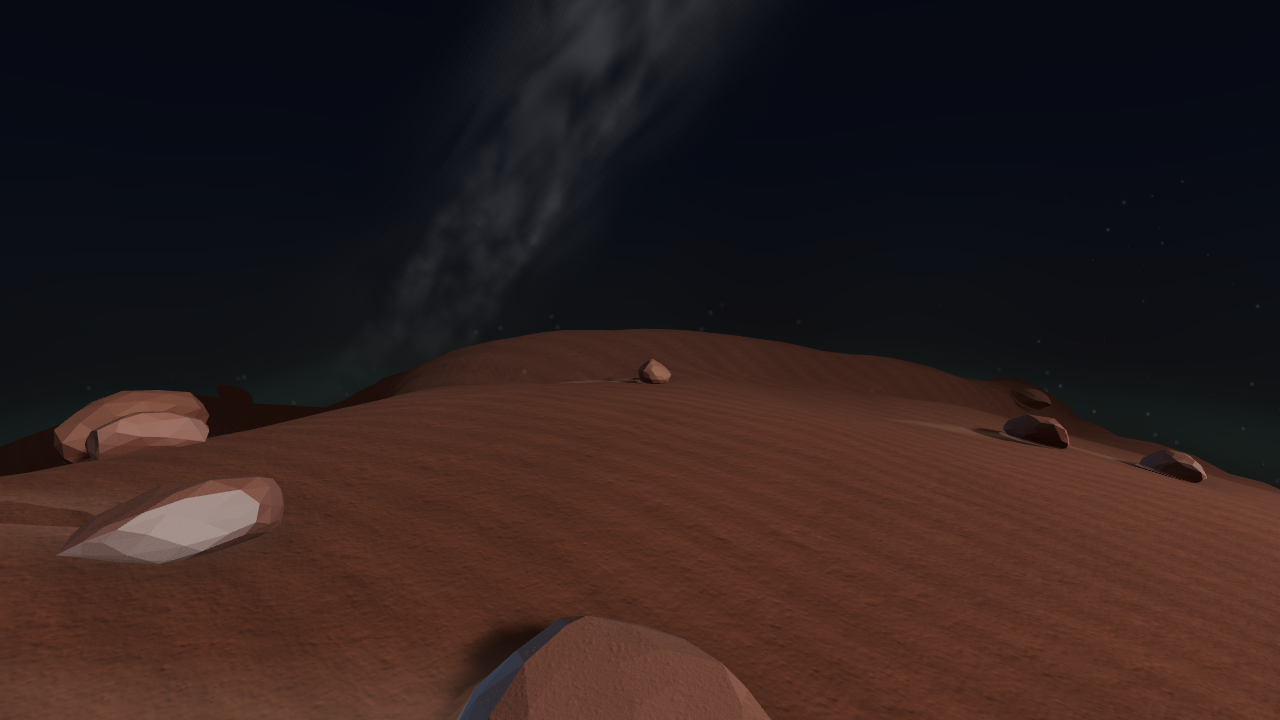
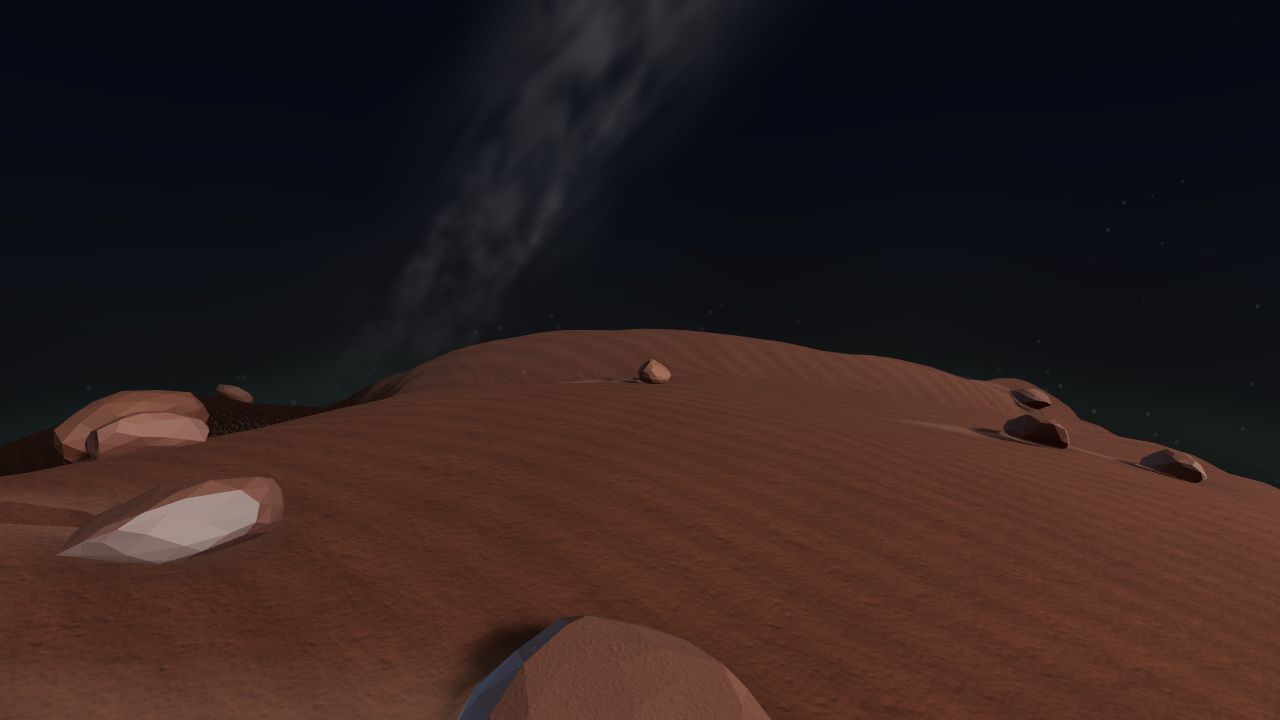
Der Nebel hatte den Mittelgrund aufgefressen
Der Pruefer nannte als schwersten Mangel, dass jede mondabgewandte
Gelaendemasse eine einzige flache Farbe ist — RGB(28,13,9), dasselbe
Zahlentripel in vier Bildern auf vier verschiedenen Graten, in rund-270 eine
zusammenhaengende Flaeche von 36 158 Pixeln.

RGB(28,13,9) ist 0x1c0d09, die Nebelfarbe. Linearer Nebel saettigt bei `far`
vollstaendig, und `far` stand auf 13 m — gerechnet fuer eine Welt, deren
fernster Punkt der Horizont bei 8,9 m ist. Seit es Grate und grosse Einschlaege
gibt, ragt etwas darueber hinaus, und genau das, was den Mittelgrund tragen
sollte, wurde restlos zugedeckt.

6 bis 34 m ist gemessen (tools/nebelversuch.mjs, vier Einstellungen an vier
Kameras; tools/nebelanteil.mjs zaehlt die reinen Nebelpixel):

  5 -> 13 m   0,75 bis 1,56 % reine Nebelfarbe
  5 -> 24 m   0,00 bis 0,24 %
  6 -> 34 m   ueberall 0,00 %

Ueber die zwoelf Rundgangsstationen faellt die groesste zusammenhaengende
Flaeche reiner Nebelfarbe von 36 158 px auf 0.

Sichtbar anders: In rund-270 stehen zwei bereifte Bloecke vor einem
modellierten Ruecken, wo vorher eine Flaeche war; in f-kante ist aus dem
schwarzen Ausschnitt ein Fels mit Facetten geworden.

Dazu zwei Reparaturen am Pruefstand. tools/silhouette.mjs setzt voraus, dass der
Himmel dunkler als L 7 ist; er liegt bei L 9 bis 16, die Kantensuche schlug
deshalb bei y = 40 an und zaehlte Himmel als Gelaende. Es prueft diese Annahme
jetzt selbst und verweigert die Auskunft, statt eine falsche zu geben.
[…]

Changed region(s): [[0.5312, 0.4583, 0.9375, 0.6417], [0.9375, 0.6417, 1.0, 0.7028], [0.1562, 0.5194, 0.1875, 0.55]]

diff --git a/src/environments.js b/src/environments.js
@@ -6966,14 +6966,30 @@ function createNightEnvironment() {
     id: 'night',
     name: '🌌 Nachthimmel',
     background: new THREE.Color(0x0a0605),
-    // **Der Nebel ist neu vermessen, nicht neu geraten.** 22 bis 48 m stammten
-    // von der 96-m-Platte; auf einer Kugel mit 25 m Halbmesser liegt der
-    // Horizont bei 9,1 m Bogen und in Sichtlinie bei 8,9 m — der alte Bereich
-    // begann also erst weit hinter dem Rand der Welt und hat nie etwas getan.
-    // 5 bis 13 m staffeln jetzt genau die Strecke, die es noch gibt: Was auf
-    // dem eigenen Hügel steht, ist klar, was über die Krümmung steigt, sitzt im
-    // Dunst.
-    fog: new THREE.Fog(0x1c0d09, 5, 13),
+    // **Der Nebel hat den Mittelgrund aufgefressen.**
+    //
+    // 5 bis 13 m war für eine Welt gerechnet, deren fernster Punkt der Horizont
+    // bei 8,9 m ist. Das stimmte, solange nichts darüber hinausragte. Seit es
+    // Grate und große Einschläge gibt, ragt etwas darüber hinaus — und
+    // **linearer Nebel sättigt bei `far` vollständig**: Jeder Grat ab 13 m
+    // wurde exakt `0x1c0d09` und sonst nichts.
+    //
+    // Der Prüfer hat das als schwerwiegendsten Mangel benannt, ohne die Ursache
+    // zu kennen: „In `rund-270` sind 3,93 % aller Bildpixel dieser eine Wert
+    // […] das größte Objekt im Bild ist kein Objekt." RGB(28,13,9) ist
+    // `0x1c0d09`. Vier Bilder, vier verschiedene Grate, ein Zahlentripel —
+    // weil es dieselbe Konstante war.
+    //
+    // 6 bis 34 m ist gemessen (`tools/nebelversuch.mjs`, vier Einstellungen an
+    // vier Kameras): Bei 5–13 waren 0,75 bis 1,56 % der Bildpunkte reine
+    // Nebelfarbe, bei 5–24 noch 0,00 bis 0,24 %, bei 6–34 **nirgends mehr
+    // etwas**. Der fernste sichtbare Geländepunkt liegt bei rund 24 m
+    // Sichtlinie; dort bleiben jetzt 36 % der Modellierung stehen statt null.
+    //
+    // Das ist wenig Nebel — und das ist richtig so. Ein luftloser Körper hat
+    // **keine** Luftperspektive. Was übrig bleibt, ist ein kompositorischer
+    // Anstoß, keine Physik; die Tiefe trägt hier die Krümmung.
+    fog: new THREE.Fog(0x1c0d09, 6, 34),
     group,
 
     // Das globale Grundlicht aus main.js aus. Begründung oben beim Lichtblock:

diff --git a/prompts/nachthimmel-log.md b/prompts/nachthimmel-log.md
@@ -2248,6 +2248,100 @@ Bezugspunkt. „0,9 bis 2,0 Meter" ist ohne die Angabe *wovon* keine Höhe, sond
 eine Zahl. Auf der Platte fielen Weltnull und Boden zusammen, und deshalb konnte
 der Unterschied zwanzig Umgebungswechsel lang unbemerkt bleiben.
 
+### Der schwerste Befund war eine Konstante — und der drittschwerste gab es nicht
+
+Der Prüfer hat seinen Bericht mit einem Satz geschlossen: *„Man steht auf einem
+Mond und schaut auf einen ausgeschnittenen Karton."* Sein Befund 1: Jede
+mondabgewandte Geländemasse ist **eine einzige flache Farbe**, RGB(28,13,9), und
+zwar dasselbe Zahlentripel in vier verschiedenen Bildern auf vier verschiedenen
+Graten. In `rund-270` waren das 3,93 % aller Bildpunkte in einer
+zusammenhängenden Fläche von 36 158 px.
+
+RGB(28,13,9) ist `0x1c0d09`. Das ist die Nebelfarbe.
+
+**Linearer Nebel sättigt bei `far` vollständig.** `far` stand auf 13 m — für
+eine Welt gerechnet, deren fernster Punkt der Horizont bei 8,9 m ist. Das war
+richtig, solange nichts darüber hinausragte. Seit dem letzten Durchlauf ragt
+etwas darüber hinaus: die Grate und die zwei großen Einschläge, die genau dafür
+gebaut wurden, den Mittelgrund zu tragen. Sie standen bei 16 bis 24 m und wurden
+restlos zu Nebelfarbe. **Ich habe den Mittelgrund gebaut und im selben Zug
+zugedeckt.**
+
+Der Prüfer hat die Ursache nicht gekannt und die Wirkung trotzdem exakt benannt.
+Sein Satz „das größte Objekt im Bild ist kein Objekt, es hat einen Umriss und
+sonst nichts" ist die genaue Beschreibung eines gesättigten Nebels.
+
+#### Gemessen, nicht geraten
+
+`tools/nebelversuch.mjs` (neu) rendert vier Einstellungen an denselben vier
+Kameras; `tools/nebelanteil.mjs` (neu) zählt, wie viele Bildpunkte exakt die
+Nebelfarbe tragen und wie groß die größte zusammenhängende solche Fläche ist.
+
+| Nebel | reine Nebelfarbe (vier Kameras) |
+| --- | --- |
+| 5 → 13 m (vorher) | 0,75 bis 1,56 % |
+| 5 → 24 m | 0,00 bis 0,24 % |
+| **6 → 34 m (jetzt)** | **überall 0,00 %** |
+| ganz aus | 0,00 % |
+
+Über die zwölf Rundgangsstationen fällt die größte zusammenhängende Fläche reiner
+Nebelfarbe von **36 158 px auf 0**.
+
+Das ist wenig Nebel — und das ist richtig so. **Ein luftloser Körper hat keine
+Luftperspektive.** Was übrig bleibt, ist ein kompositorischer Anstoß, keine
+Physik; die Tiefe trägt hier die Krümmung. In `rund-270` stehen jetzt zwei
+bereifte Blöcke vor einem modellierten Rücken, wo vorher eine Fläche war; in
+`f-kante` ist aus dem schwarzen Ausschnitt ein Fels mit Facetten geworden.
+
+### Die Sterne vor dem Boden, die es nicht gab
+
+Befund 3 des Prüfers: 104 helle Punkte unterhalb der Geländekante in `rund-210`,
+dazu welche in 240, 270, 300 — „der eine Fehler in dieser Liste, den auch ein
+völlig unaufmerksamer Betrachter bemerkt".
+
+**Er hat sich geirrt, und zwar aus demselben Grund, aus dem er Befund 1 gefunden
+hat.** Im alten Bild war das Gelände jenseits von 13 m reine Nebelfarbe, L 15,6 —
+nicht unterscheidbar vom dunklen Himmel am Horizont. Wer die Geländekante über
+die Helligkeit sucht, findet dort, wo das beleuchtete Nahfeld aufhört, eine
+Kante — und die liegt weit **über** dem wirklichen Horizont. Alles dazwischen ist
+Himmel.
+
+Nachgemessen an seiner eigenen Koordinate. `tools/sterne-hinter.mjs` rät nicht,
+sondern schaltet das Sternfeld ab, setzt den Hintergrund auf Magenta und liest
+die Geländemaske aus der Szene:
+
+| | Prüfer | gemessen |
+| --- | --- | --- |
+| Geländekante in Spalte 386 | y = 418 | **y = 479** |
+| (386, 458) | „Stern 40 px im Boden" | **Himmel, kein Gelände** |
+| (840, 433) | Stern im Boden | Himmel |
+| (239, 511) | Stern im Boden | Himmel |
+| Sterne vor dem Gelände, zwölf Stationen | 104 + | **0** |
+
+Das ist kein Punkt gegen ihn: **Mein eigenes Werkzeug hatte genau denselben
+Fehler**, und er hat ihn gefunden, nicht ich. `tools/silhouette.mjs` sucht die
+Kante als „oberste Zeile, ab der 35 Zeilen heller als L 7 sind" und setzt laut
+eigenem Kommentar voraus, dass der Himmel bei L 2 bis 4 liegt. Er liegt bei L 9
+bis 16. Sein Satz dazu: *„Wer diesem Werkzeug eine 0 entnommen hat, hat nichts
+gemessen."* Das war ich.
+
+#### Zwei Reparaturen am Prüfstand
+
+* **`tools/silhouette.mjs` prüft jetzt seine eigene Voraussetzung** und
+  verweigert die Auskunft, statt eine falsche zu geben: Es misst den Median der
+  obersten 26 Zeilen und bricht mit Rückgabewert 2 ab, wenn der über 7 liegt.
+  Eine bessere Schwelle wäre die falsche Antwort gewesen — jede Schwelle über
+  der Helligkeit bricht beim nächsten Mal wieder.
+* **`tools/sterne-hinter.mjs --rundgang`** prüft jetzt auch die zwölf Stationen.
+  Dass es sie nicht kannte, war die eigentliche Lücke: Der Fehler wurde an
+  Stationen behauptet, die die Messung nie gesehen hat. Vier von zwölf, und die
+  Antwort lautete null, weil sie woanders hinsah.
+
+**Die Lehre:** Ein Werkzeug, dessen Annahme über die Szene irgendwann einmal
+stimmte, ist kein Messgerät mehr, sondern ein Gerücht mit Nachkommastellen. Beide
+Fassungen von `silhouette.mjs` sind an derselben Annahme gescheitert, und beide
+Male stand die Annahme im Kommentar darüber.
+
 ### Die Lehren dieser Runde
 
 * **Eine API-Zahl, deren Bedeutung man zu kennen glaubt, gehört nachgezählt.**
